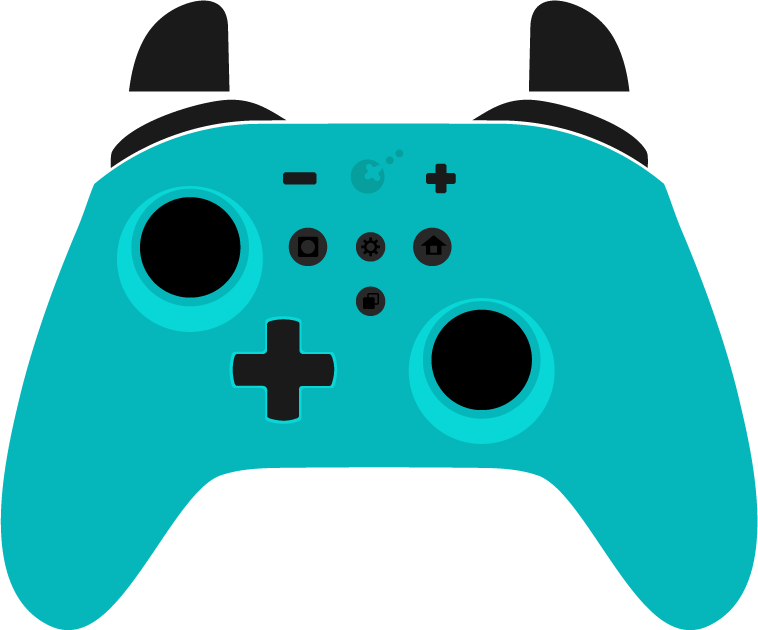
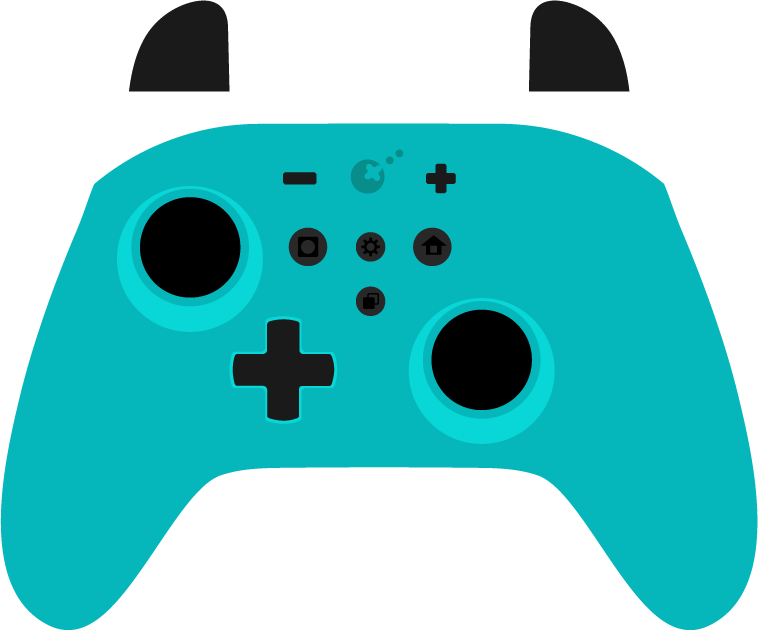
Add files via upload

Changed region(s): [[0.6069, 0.1508, 0.8799, 0.2714], [0.1214, 0.1508, 0.3945, 0.2714]]

diff --git a/gulikit-kingkong-blue/gulikitkkblue.css b/gulikit-kingkong-blue/gulikitkkblue.css
@@ -1,13 +1,13 @@
 
 .controller.custom {
-    background: url(base.svgz); 
+    background: url(base.png); 
     height: 630px;
     width: 758px;
 }
 
 
 .custom.disconnected { /* This class shows an image when the controller is disconnected */
-    background: url(disconnected.svgz);
+    background: url(disconnected.png);
 }
 
 
@@ -30,7 +30,7 @@
 .custom .trigger {/* These are the actual triggers themselves */
     width:100px;
     height:91px;
-    background: url(trigger.svgz);
+    background: url(trigger.png);
 }
 
 .custom .trigger.pressed {
@@ -46,10 +46,10 @@
 }
 
 .custom .bumpers {
-    width: 535px;
+    width: 537px;
     height: 67px;
-    left: 112px;
-    top:  99px;
+    left: 111px;
+    top:  98px;
     position: absolute;
 }
 
@@ -60,11 +60,12 @@
 .custom .bumper{
     width: 174px;
     height: 68px;
+    background: url(bumper.png);
 
 }
 
 .custom .bumper.pressed {
-    background: url(bumper.svgz);
+    background-position-y: -68px;
 }
 
 .custom .bumper.left{
@@ -90,7 +91,7 @@
 
 .custom .stick {
     position: absolute;
-    background: url(stick.svgz);
+    background: url(stick.png);
     height: 86px;
     width: 86px;
 }
@@ -135,7 +136,7 @@
 }
 
 .custom .face.pressed{
-    background: url(dpad.svgz);
+    background: url(dpad.png);
 
 }
 .custom .face.up{
@@ -178,7 +179,7 @@
     position: absolute;
     width: 50px;
     height: 50px;
-    background: url(face.svgz);
+    background: url(face.png);
 }
 .custom .button.pressed {
     background-position-y: -50px;
@@ -210,21 +211,19 @@
 }
 
 .custom .back {
-    background: url(start.svgz);
+    background: url(start.png);
     width: 34px;
     height: 29px;
-    opacity: 0;
     float: left;
 }
 
 .custom .start {
-    background: url(start.svgz);
+    background: url(start.png);
     width: 29.5px;
     height: 29.5px;
-    opacity: 0;
     float: right;
     background-position: 30px 0;
 }
 .custom .back.pressed, .custom .start.pressed {
-    opacity: 1;
+    background-position-y: -30px;
 }
